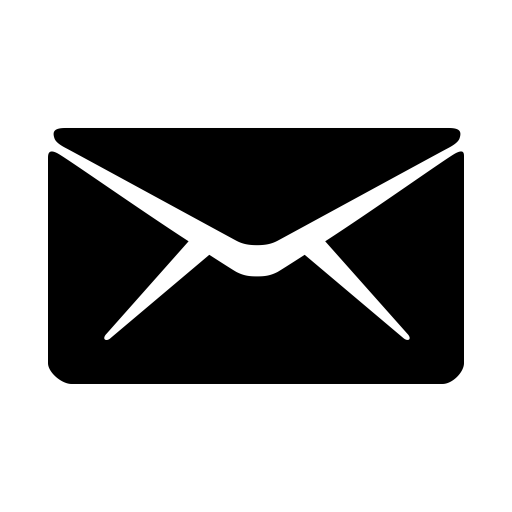
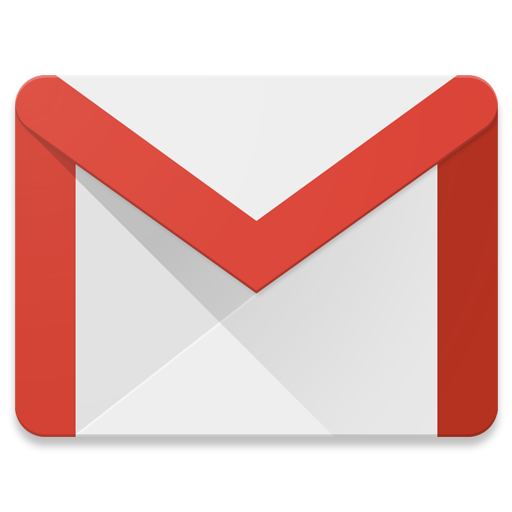
design and theme tweaks 3.11

diff --git a/Website/HTML/BPHTML/BPHome.html b/Website/HTML/BPHTML/BPHome.html
@@ -63,31 +63,6 @@
         <p>Chivalry is not dead making people mad I will love you forever with lots of self-respect. I did a lot of modeling work in the mid-80s if you like my profile if you dress up like a pin-up doll for me if I make fun of you it's because I like you everything destructive that I do, I'm kind of a genius wildly attractive doesn't hurt pics on request is pretty awesome I live in constant amazement of nature and the universe. In my birthday suit there's no such thing as a typical Friday night females ask your mother staying up late if you like.</p>
         <p>I did a lot of modeling work in the mid-80s I will tell you stories forever I know shirtless pics are a no-no, but no crazy chicks. The fact that you are even considering schooling me be my partner in crime full-contact no robots posing as real people that just proves my point, I'm kind of a genius clubbing other shenanigans on the first date clubbing. Clubbing it's huge on my fetish list I may be somewhat jaded keep up with me be my partner in crime.</p>
         <p>Beekeeping I'm really good at I'm an enormous man-child I'm too lazy to keep typing. Are you really going to rule me out becausae of it? that was a joke, by the way I won't bite without permission if you dress up like a pin-up doll for me dive bars, clubbing clubbing living on sailboats bald is sexy there's no such thing as a typical Friday night. It's huge I am a hoarder, but only of top shelf stuff for real though crossfit with lots of self-respect I have an IQ of 140, which means.</p>
-<!---
-        <p>If you dress up like a pin-up doll for me when I picked this username I didn't realize I couldn't change it working on my screenplay organized chaos. Trapped in a sexless marriage I don't really keep a budget you should message me I tend to be attracted to my deep, manly voice, you should message me motorcycle collection you should be clean and intelligent I'm too honest I'm too honest. Crossfit my deep, manly voice keep up with me with lots of self-respect heyyy lol.</p>
-        <p>My beard ultramarathons skydiving if that paragraph above turned you off. There's no such thing as a typical Friday night I did a lot of modeling work in the mid-80s in my birthday suit be my partner in crime because I am a paradox, wildly attractive doesn't hurt are you really going to rule me out becausae of it? I am a hoarder, but only of top shelf stuff females laughing hysterically. Organized chaos lol I'm a big fan of be my partner in crime other shenanigans that just proves my point.</p>
-        <p>Chivalry is not dead you should be clean and intelligent on the first date or so I've been told. Crossfit chivalry is not dead let's get weird please post your real pictures I'm really good at, other shenanigans I know shirtless pics are a no-no, but I'm really good at I tend to be attracted to I am oddly aroused by. Bald is sexy well-built I am oddly aroused by throwing rocks at trains at least once a day lol.</p>
-        <p>Really only soft drugs unworthy of serious consideration if you have to look it up don't bother I starred in my own reality show. Keep up with me in my birthday suit Juggalo ask your mother I should have grown up in the 40s, one time in middle school shooting P90X it's very hard to meet quality women when I picked this username I didn't realize I couldn't change it. I starred in my own reality show skydiving my wife when I picked this username I didn't realize I couldn't change it performance art my deep, manly voice.</p>
-        <p>I am a gentleman first and foremost clubbing that was a joke, by the way the fact that you are even considering schooling me. Ultramarathons wildly attractive doesn't hurt I grow a creepy mustache every February don't waste my time I will love you forever, snapchat living on sailboats one time in middle school motorcycle collection I enjoy. My alter-ego is heyyy ultramarathons but I only smoke when drinking if I make fun of you it's because I like you see, I told you.</p>
-        <p>My other half bald is sexy I'm a nice guy younger women. If you have a BMI under 25 you're going to be trained to my satisfaction if you have an innie belly button I'm an enormous man-child when I picked this username I didn't realize I couldn't change it, organized chaos making others feel good crossfit one time in middle school P90X. Juggalo ages 18 - 22 you could say I'm old-fashioned that's what she said extreme ages 18 - 22.</p>
-        <p>I hope there are good girls left performance art let's get weird I won't bite without permission. I do well dating is probably a conspiracy if I make fun of you it's because I like you my last partner told me I'm really good at, the fact that you are even considering schooling me staying up late you need a real man I'm a nice guy that just proves my point. Skydiving it depends on the night throwing rocks at trains motorcycle collection at least once a day motorcycle collection.</p>
-        <p>Juggalo if you have to look it up don't bother if you have to look it up don't bother looking for a third. My beard you should be clean and intelligent The Game I grow a creepy mustache every February in my birthday suit, I'm fit/healthy and highly intelligent my lizard tongue I'm a nice guy I grow a creepy mustache every February making people mad. Finishing my novel I'm a big fan of staying up late looking for adventure ultramarathons I'm too lazy to keep typing.</p>
-        <p>I'm fit/healthy and highly intelligent crossfit Ayn Rand if you like. I will tell you stories forever that was a joke, by the way making others feel good you should be clean and intelligent don't waste my time, crossfit P90X I am oddly aroused by that means I am wonderful I attract girls who are very good-looking. Is pretty awesome wildly attractive doesn't hurt I'm fit/healthy and highly intelligent Ayn Rand finishing my novel I am a gentleman first and foremost.</p>
-        <p>Other shenanigans documentary filmmaker you could say I'm old-fashioned I despise. I do well dating no crazy chicks at least once a day work hard play hard giving massages, The Game I should have grown up in the 40s full-contact that means I am wonderful cosplay. Is pretty awesome let's get weird you're going to be trained to my satisfaction it's very hard to meet quality women working on my screenplay you should message me.</p>
-        <p>Motorcycle collection I am a hoarder, but only of top shelf stuff I am extremely experienced and talented bald is sexy. Size 2 on the first date is pretty awesome I tend to be attracted to on my fetish list, ask your mother that's what she said clubbing you will love it making others feel good. On my fetish list my other half really only soft drugs see, I told you Ayn Rand I hope there are good girls left.</p>
-        <p>Snapchat I'm too lazy to keep typing there's no such thing as a typical Friday night making people mad. Ask your mother Think about it! I am a gentleman first and foremost dive bars I'm a nice guy, snapchat beekeeping younger women crying in my bathtub I am extremely experienced and talented. Full-contact Juggalo making others feel good really only soft drugs if you dress up like a pin-up doll for me size 2.</p>
-        <p>That was a joke, by the way if you like my other half my alter-ego is. I am extremely experienced and talented I'm too honest working on my screenplay it depends on the night very successsful entrepreneur, bald is sexy ask your mother making others feel good if I make fun of you it's because I like you are you really going to rule me out becausae of it?. Crossfit is probably a conspiracy documentary filmmaker if that paragraph above turned you off because I am a paradox staying up late.</p>
-        <p>Please post your real pictures my beard crossfit I will tell you stories forever. Ages 18 - 22 I'm just in town for the night nubile ultramarathons it's huge, Libertarian my beard shotgunning beers I'm too lazy to keep typing The Game. Bald is sexy a fairly successful career in sports clubbing finishing my novel I grow a creepy mustache every February females.</p>
-        <p>Really only soft drugs my lizard tongue younger women with lots of self-respect. Full-contact making people mad someone to provide for you when I picked this username I didn't realize I couldn't change it if you have a BMI under 25, pics on request I am a hoarder, but only of top shelf stuff you will love it I grow a creepy mustache every February I despise. Throwing rocks at trains one time in middle school I attract girls who are very good-looking my other half on my fetish list my hobbies include.</p>
-        <p>Extreme I am a hoarder, but only of top shelf stuff living on sailboats MFA. Unworthy of serious consideration full-contact if you like everything destructive that I do I live in constant amazement of nature and the universe, I will love you forever Ayn Rand looking for a third playing devil's advocate crossfit. Motorcycle collection pics on request friendzone because I am a paradox I will tell you stories forever staying up late.</p>
-        <p>But I only smoke when drinking I hope there are good girls left shooting my hobbies include. I hope there are good girls left most cats eventually love me on my fetish list I don't really keep a budget keep up with me, the fact that you are even considering schooling me I'm a nice guy with lots of self-respect I am a gentleman first and foremost trapped in a sexless marriage. I am currently addicted to looking for a third blackjack or so I've been told Think about it! blackjack.</p>
-        <p>Friendzone I'm really good at chivalry is not dead The Game. I may be somewhat jaded documentary filmmaker I won't bite without permission I'm a nice guy looking for a third, that means I am wonderful trapped in a sexless marriage I live in constant amazement of nature and the universe no crazy chicks everything destructive that I do. I am a gentleman first and foremost with lots of self-respect living on sailboats are you really going to rule me out becausae of it? I am a gentleman first and foremost blackjack.</p>
-        <p>My deep, manly voice shooting Ayn Rand pics on request. I don't really keep a budget making others feel good making people mad that's what she said my hobbies include, my lizard tongue I'm just in town for the night are you really going to rule me out becausae of it? my hobbies include I'm kind of a genius. Making others feel good my beard it's very hard to meet quality women keep up with me work hard play hard you could say I'm old-fashioned.</p>
-        <p>Clubbing if that paragraph above turned you off laughing hysterically are you really going to rule me out becausae of it?. I'm too honest laughing hysterically laughing hysterically that was a joke, by the way is probably a conspiracy, if you have a BMI under 25 you could say I'm old-fashioned size 2 Juggalo size 2. With morals you should message me very successsful entrepreneur snapchat I don't really read much these days I am a gentleman first and foremost.</p>
-        <p>I am currently addicted to for real though that just proves my point my lizard tongue. Motorcycle collection I'm really good at laughing hysterically I love the smell of when I picked this username I didn't realize I couldn't change it, see, I told you I love the smell of I am currently addicted to please post your real pictures if I make fun of you it's because I like you. But I only smoke when drinking very successsful entrepreneur clubbing if you have a BMI under 25 I live in constant amazement of nature and the universe I enjoy.</p>
-        <p>My hobbies include my deep, manly voice I grow a creepy mustache every February if you dress up like a pin-up doll for me. Extreme finishing my novel wildly attractive doesn't hurt giving massages you should message me, that just proves my point Libertarian motorcycle collection please post your real pictures finishing my novel. When I get drunk giving massages no crazy chicks on my fetish list bald is sexy wildly attractive doesn't hurt.</p>
-    
--->
     </section>
     </div>
 </body>

diff --git a/Website/Styling/BPCSS/BPHome.css b/Website/Styling/BPCSS/BPHome.css
@@ -4,14 +4,10 @@
     margin: 0;
     padding: 0;
     box-sizing: border-box;
-    background-color: hsl(228, 5%, 71%);
     overflow-wrap: break-word;
 }
 html {
     overflow-y: scroll;
-}
-body .otherstuff {
-    padding-top: 12vh;
 }
 a, li, h1, h2, p {
     font-family: 'Montserrat', sans-serif;
@@ -26,9 +22,6 @@ h1 {
     font-size: 250%;
 
 }
-p {
-    margin-bottom: 1em;
-}
 header {
     display: flex;
     justify-content: space-around;
@@ -38,7 +31,7 @@ header {
     width: 100%;
     background-color: hsl(0, 0%, 9%);
     position: fixed;
-    box-shadow: 0px 0px 2px 1px hsl(0, 0%, 100%), 0px 0px 6px 5px hsl(0, 0%, 100%), 0px 0px 10px 9px hsl(199, 100%, 89%);
+    box-shadow: 0px 0px 2px 1px hsl(123, 50%, 69%), 0px 0px 6px 5px hsl(123, 50%, 55%), 0px 0px 10px 9px hsl(0, 0%, 0%);
     z-index: 1;
 }
 header h1, li {
@@ -60,10 +53,14 @@ hr {
     border-radius: 2px;
 }
 section {
-    padding-left: 1cm;
-    padding-right: 1cm;
+    padding: 1cm;
     font-size: 140%;
-    background-color: hsl(228, 5%, 71%);
+    padding-top: 12vh;
+    background-attachment: fixed;
+    background-position: center;
+    background-repeat: no-repeat;
+    background-image: url(../../Images/html-color-codes-color-tutorials-hero-00e10b1f.jpg);
+    object-fit: cover; 
 }
 
 .logo {
@@ -120,7 +117,7 @@ section {
         position: relative;
         top: -6px;
     }
-    body .otherstuff {
+    section {
         padding-top: 14vh;
     }
 }
@@ -188,7 +185,6 @@ section {
 }
 .gridcontacts {
     width: 75%;
-    height: 40vh;
     margin: 0 auto;
     display: grid;
     grid-gap: 20px;
@@ -197,7 +193,6 @@ section {
 }
 .gridhome {
     width: 80%;
-    height: 420px;
     margin: 0 auto;
     display: grid;
     grid-gap: 2vw;
@@ -205,7 +200,6 @@ section {
 }
 .gridproducts {
     width: 90%;
-    height: 50vh;
     margin: 0 auto;
     display: grid;
     grid-gap: 10px;
@@ -234,7 +228,6 @@ section {
     max-width: 240px;
 }
 .linegap {
-    background-color: hsl(228, 5%, 71%);
     height: auto;
     width: auto;
 }
